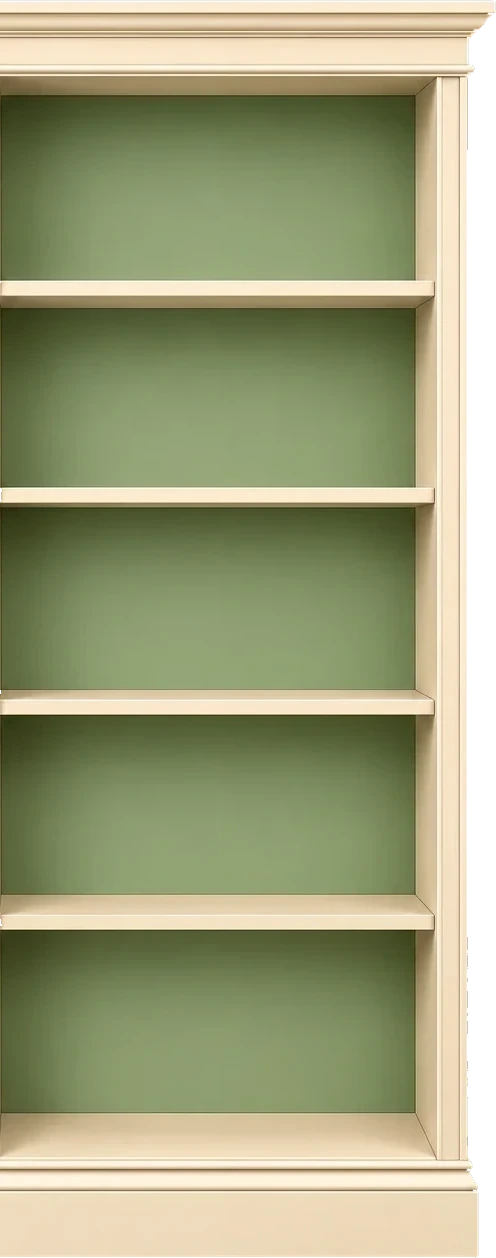
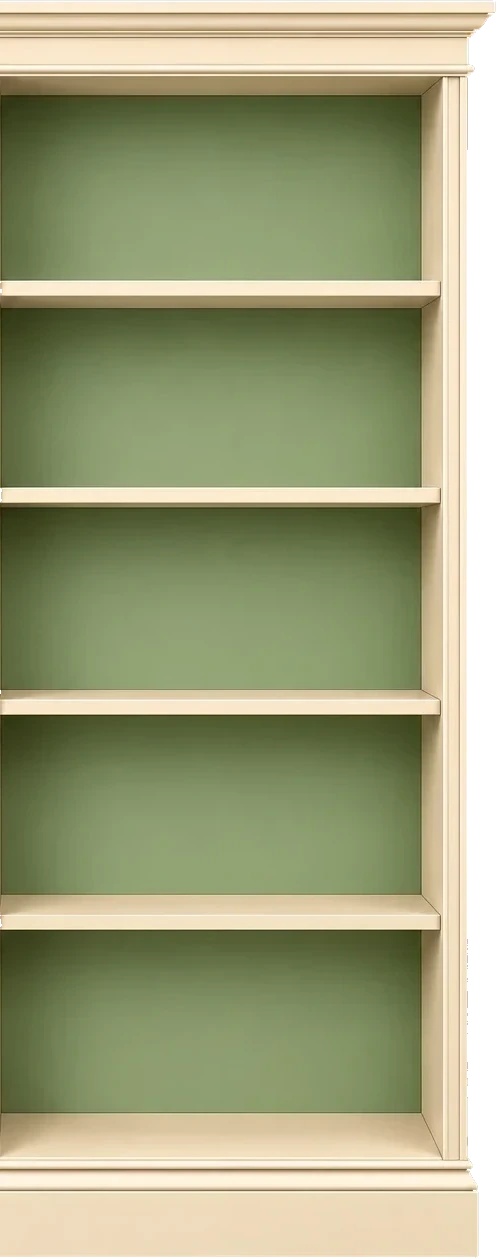
Schlichtes Fach so groß wie das Bücherfach, Lady-Pfosten so schmal wie beim Gentleman (2.3.4)

Changed region(s): [[0.8165, 0.062, 0.9073, 0.93]]

diff --git a/index.html b/index.html
@@ -2360,7 +2360,7 @@ html.theme-retreat .lib-news{ background:#fffdf8; }
 
 <script>
 /* Bump on every published update, so it's visible at a glance whether the newest version is loaded. */
-const APP_VERSION = '2.3.3';
+const APP_VERSION = '2.3.4';
 /* Design (since 1.80.0, see the small script in <head>): in "Business" (BIZ) the gold paper icons are swapped for plain line
    icons (img/icons-rl/*.svg) wherever they appear – also in everything drawn later – so the rest of the code stays as it is. */
 // A Lady's Conservatory (1.84.0, named so since 1.86.1; key 'retreat' and RETREAT stay): light, cream and forest green; until its own pictures come it uses those of A Gentleman's Study (with the
@@ -7522,10 +7522,10 @@ const SHELVES = {
   clean:{ img:'mw2/shelf', fronts:'mw2/shelf-fronts', aspect:501 / 1279, roof:1.8, x:[0.8, 88.4], rows:SHELF_ROWS2 },
   ivy:{ img:'mw2/shelf-ivy', fronts:'mw2/shelf-ivy-fronts', aspect:501 / 1280, roof:1.8, x:[0.8, 88.4], rows:SHELF_ROWS2 },
   rl:RETREAT
-    ? { img:'rt2/shelf3', fronts:'rt2/shelf3-fronts', aspect:496 / 1258, roof:1.8, x:[0.8, 88.5], rows:SHELF_ROWS_RT } // 1.11.2026: cream and green, same perspective and width as the other bookcases
+    ? { img:'rt2/shelf3', fronts:'rt2/shelf3-fronts', aspect:496 / 1258, roof:1.8, x:[0.8, 89.7], rows:SHELF_ROWS_RT } // 1.11.2026: cream and green, same perspective, width and post thickness as the other bookcases
     : { img:'rl2/shelf', fronts:'rl2/shelf-fronts', aspect:504 / 1278, roof:1.8, x:[0.8, 89.3], rows:SHELF_ROWS2 },
   rlPlant:{ img:'rl2/shelf-plant', fronts:'rl2/shelf-plant-fronts', aspect:480 / 1279, roof:1.8, x:[0.8, 88.8], rows:SHELF_ROWS2 }, // A Gentleman's Study from level 3: with the monstera
-  rtPlain:{ img:'rt2/shelf3', fronts:'rt2/shelf3-fronts', aspect:496 / 1258, roof:1.8, x:[0.8, 88.5], rows:SHELF_ROWS_RT }
+  rtPlain:{ img:'rt2/shelf3', fronts:'rt2/shelf3-fronts', aspect:496 / 1258, roof:1.8, x:[0.8, 89.7], rows:SHELF_ROWS_RT }
 };
 // the cobwebs stay for the first two active days (since 1.83.0; before: one), from the 3rd the shelf is clean, ivy from level 3
 /* The narrow bookcase (1.81.0): as soon as the diaries no longer fit into the top compartment, a narrow bookcase of the same
@@ -7537,7 +7537,7 @@ const NARROW = {
   clean:{ img:'mw2/shelf-narrow', fronts:'mw2/shelf-narrow-fronts', aspect:332 / 1279, x:[16.3, 90.4], k:332 / 501, ov:0 },
   ivy:{ img:'mw2/shelf-ivy-narrow', fronts:'mw2/shelf-ivy-narrow-fronts', aspect:337 / 1280, x:[16.6, 90.5], k:337 / 501, ov:0, plant:{ img:'mw2/ivy', w:19.6, over:11.9 } },
   rl:RETREAT
-    ? { img:'rt2/shelf3-narrow', fronts:'rt2/shelf3-narrow-fronts', aspect:325 / 1258, x:[17.8, 90.2], k:325 / 496, ov:0 }
+    ? { img:'rt2/shelf3-narrow', fronts:'rt2/shelf3-narrow-fronts', aspect:325 / 1258, x:[16, 92.3], k:325 / 496, ov:0 }
     : { img:'rl2/shelf-narrow', fronts:'rl2/shelf-narrow-fronts', aspect:330 / 1278, x:[15.2, 91.5], k:330 / 504, ov:0 },
   rlPlant:{ img:'rl2/shelf-plant-narrow', fronts:'rl2/shelf-plant-narrow-fronts', aspect:324 / 1279, x:[13.9, 91.4], k:324 / 480, ov:0, plant:{ img:'rl2/plant', w:61.1, over:12.3 } }
 };
@@ -7607,12 +7607,13 @@ function renderLibViewSettings(){
   document.getElementById('t-libview-hint').textContent = d.libViewHint;
 }
 function tbRenderLibrarySimple(){
-  // 2.3.2 (wish of the user): book part + trophy part with the middle taken out (middle post and most of the trophy compartment),
-  // the left part joined to the right end – the perspective is right (left and right inner wall as seen from the front), same width as the
-  // book part; x[1] = inner right wall measured in the new pictures. Never a plant here (no ivy, no monstera – only the clean book part)
-  const SIMPLE_XR = { rl2:83.7, mw2:82.5, rt2:82.5 };
+  // 2.3.2/2.3.3 (wishes of the user): book part + trophy part with the middle taken out (middle post and most of the trophy compartment),
+  // the left part joined to the right end – the perspective is right (left and right inner wall as seen from the front). The compartment is
+  // the whole book compartment plus the right inner wall, so at least as many diaries fit as in the bookcase with the room.
+  // [width, height, x0, x1] of shelf-simple2 (measured). Never a plant here (no ivy, no monstera – only the clean book part)
+  const SIMPLE = { rl2:[381, 1278, 13.1, 85.8], mw2:[383, 1279, 14.1, 84.9], rt2:[376, 1258, 13.8, 86.4] };
   const key = BIZ ? 'rl' : 'clean', SH = SHELVES[key], N0 = NARROW[key], dir = RETREAT ? 'rt2' : BIZ ? 'rl2' : 'mw2';
-  const d = t(), NS = { img:dir + '/shelf-simple2', fronts:dir + '/shelf-simple2-fronts', aspect:N0.aspect, x:[N0.x[0], SIMPLE_XR[dir]] };
+  const d = t(), NS = { img:dir + '/shelf-simple2', fronts:dir + '/shelf-simple2-fronts', aspect:SIMPLE[dir][0] / SIMPLE[dir][1], x:[SIMPLE[dir][2], SIMPLE[dir][3]] };
   SHELF_X = SH.x; SHELF_ROWS = SH.rows;
   const keys = tbBookKeys(), WALL = 4;
   const cap = i=>{ const r = SHELF_ROWS[Math.min(i, SHELF_ROWS.length - 1)]; return (NS.x[1] - NS.x[0]) / (r[1] - r[0]) * 100 * NS.aspect - 2 * WALL; };

diff --git a/CLAUDE.md b/CLAUDE.md
@@ -11,7 +11,7 @@ Der Nutzer ist kein Entwickler. Erkläre Schritte einfach und auf Deutsch.
 eWolfe ist **kein Ein-Personen-Projekt**: Die Nutzerin hatte beim Bau große Hilfe (Betreiber: eWolfe GbR). Nie als Werk einer einzelnen
 Person beschreiben (auch nicht im Ältestenrat, in Analysen oder Präsentationen); wer zum Team gehört, nicht raten.
 
-## Übergabe – Stand 1.11.2026 abends (Version 2.3.3) – zuerst lesen
+## Übergabe – Stand 1.11.2026 abends (Version 2.3.4) – zuerst lesen
 - **Neuer Rechner (seit 31.10.2026):** Repo liegt in `~/Documents/GitHub/k9vk58y99f-max.github.io-ewolfe-app-`, Branch `main`, Git-Name
   `k9vk58y99f-max`, E-Mail `k9vk58y99f@privaterelay.appleid.com` (global). **Claude kann von hier nicht pushen** (keine GitHub-Anmeldung im
   Terminal): committen, dann bittet man den Nutzer, in **GitHub Desktop** (liegt auf dem Schreibtisch) auf „Push origin“ zu klicken. Danach prüfen:
@@ -29,8 +29,8 @@ Person beschreiben (auch nicht im Ältestenrat, in Analysen oder Präsentationen
 - **2.3.0 (nach dem KI-Ältestenrat):** Bibliothek „Raum / Schlicht“, Trophäen- und Rang-Meldungen nur noch leise in der Bibliothek,
   Konto löschen in den Einstellungen (Supabase-Funktion `delete_own_account`), Fehler behoben: Bibliothek in A Mystery World auf Deutsch stürzte seit 2.2.3 ab.
   **2.3.1:** schlichtes Regal symmetrisch (Ecken gespiegelt), dort nie eine Pflanze. **2.3.2:** schlichtes Regal stattdessen aus Bücher- und
-  Trophäenteil zusammengefügt (perspektivisch richtig), „Schneiderbüste“ statt „Puppe“. **2.3.3:** neues Lady-Regal, neues Gentleman-Papier und -Klemmbrett. **Stand 1.11.2026 abends: 2.3.0 ist live, 2.3.1–2.3.3 sind
-  committet, aber noch nicht gepusht** → Nutzer bitten, in GitHub Desktop „Push origin“ zu klicken, dann Live-Version prüfen.
+  Trophäenteil zusammengefügt (perspektivisch richtig), „Schneiderbüste“ statt „Puppe“. **2.3.3:** neues Lady-Regal, neues Gentleman-Papier und -Klemmbrett. **2.3.4:** schlichtes Fach so groß wie das Bücherfach, Lady-Pfosten schmaler.
+  **Stand 1.11.2026 abends: 2.3.0 ist live, 2.3.1–2.3.4 sind committet, aber noch nicht gepusht** → Nutzer bitten, in GitHub Desktop „Push origin“ zu klicken, dann Live-Version prüfen.
 - **KI-Ältestenrat (Skill `ki-aeltestenrat`, persönlich):** Nutzer schickt Fragen gern durch den Rat und will **lange, ausführliche** Antworten
   (alle Rollen ausführlich, App-Analyse mit Zahlen). Ergebnisse dieser Sitzung:
   - Reduzierter Modus → als Schalter gebaut (2.3.0). Übersehenes Argument: Belohnungen können innere Motivation verdrängen.
@@ -177,7 +177,7 @@ Person beschreiben (auch nicht im Ältestenrat, in Analysen oder Präsentationen
 - Veröffentlicht über **GitHub Pages** aus diesem Repository (Branch `main`, Ordner `/`):
   https://k9vk58y99f-max.github.io/k9vk58y99f-max.github.io-ewolfe-app-/
 - Ein Commit + Push auf `main` ist die Veröffentlichung; nach 1–2 Minuten ist es live.
-- Bei jeder Änderung `APP_VERSION` erhöhen (aktuell `2.3.3`) und `APP_BUILD` anpassen.
+- Bei jeder Änderung `APP_VERSION` erhöhen (aktuell `2.3.4`) und `APP_BUILD` anpassen.
   Die Version steht unten in der App.
 
 ## Neu seit 1.55.0 (iPad, Wischen, Tagebuch, Sticker, Impulskarten)
@@ -876,6 +876,14 @@ Vor jedem Push: Syntax prüfen und die betroffenen Abläufe testen. Daten des Nu
   - Neue Dateinamen gegen alte Zwischenspeicher; alte Bilder `rl2/paper-p|l`, `rl2/clipboard2` entfernt (Kopie „veraltet“).
   - Test `t233.py` (Chromium + WebKit, 820/390: Lady Raum + schlicht, Gentleman Raum, Gewohnheiten, Tagebuchseite, Mystery schlicht), Skripte
     `lady_schneiden.py`, `streifen.py`, `messen_regal.py` in `Lebensrad APP/eWolfe-Skripte/`.
+- **2.3.4 (1.11.2026) Schlichtes Fach so groß wie das Bücherfach, Lady-Pfosten schmaler (Hinweise des Nutzers):**
+  - Das schlichte Regal war so breit wie der ganze Bücherteil (samt rechtem Pfosten) – das Fach innen war dadurch schmaler als im Regal mit Raum.
+    Neu (`schlicht2.py`): Bücherteil bis 30 px vor die Mittelwand, dann der Trophäenteil ab 30 px + rechte Innenwand (~25 px) vor seinem rechten
+    Pfosten. Das Fach ist so breit wie das Bücherfach plus die rechte Innenwand. Maße je Design in `SIMPLE` (`tbRenderLibrarySimple`):
+    rl2 381×1278 `x:[13.1, 85.8]`, mw2 383×1279 `x:[14.1, 84.9]`, rt2 376×1258 `x:[13.8, 86.4]`; alle drei auf dem Bildschirm gleich breit.
+  - Lady-Pfosten waren ~25 % breiter als beim Gentleman (Front 30 statt 24 px bei gleicher Höhe; dicker wirken sie zusätzlich, weil die Innenwände
+    cremeweiß statt dunkel sind). Je 6–7 px aus linkem, mittlerem und rechtem Pfosten genommen, dafür die Fach-Streifen kleiner (4 bzw. 19 px), Gesamtbreite
+    unverändert (`streifen2.py`). Neu: Bücherteil `x:[16, 92.3]`, Trophäenteil `x:[0.8, 89.7]`. Mystery-Pfosten passen (nicht geändert).
 - **Noch offen (Datenschutz):** Speicher-Erinnerung (80 %/90 %), verschlüsseltes Backup + monatliche Erinnerung, IndexedDB statt localStorage, Fotos einzeln
   im Supabase-Speicher; Platzhalter der Datenschutzerklärung füllen und rechtlich prüfen lassen; AVV und SMTP bei Supabase.
 
